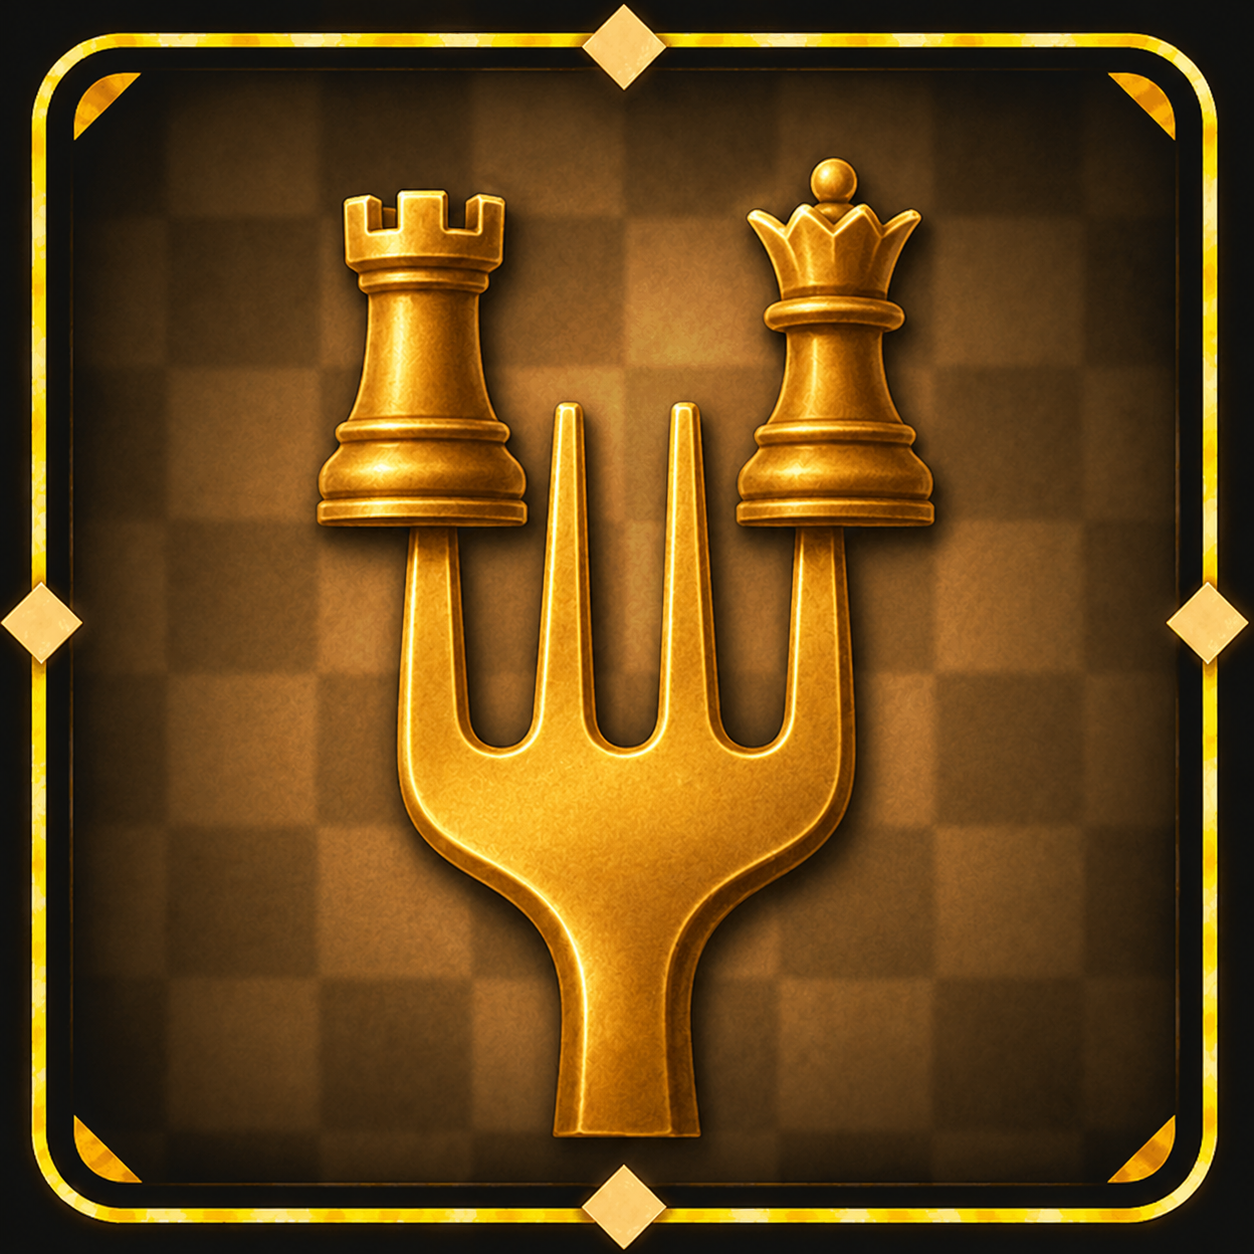
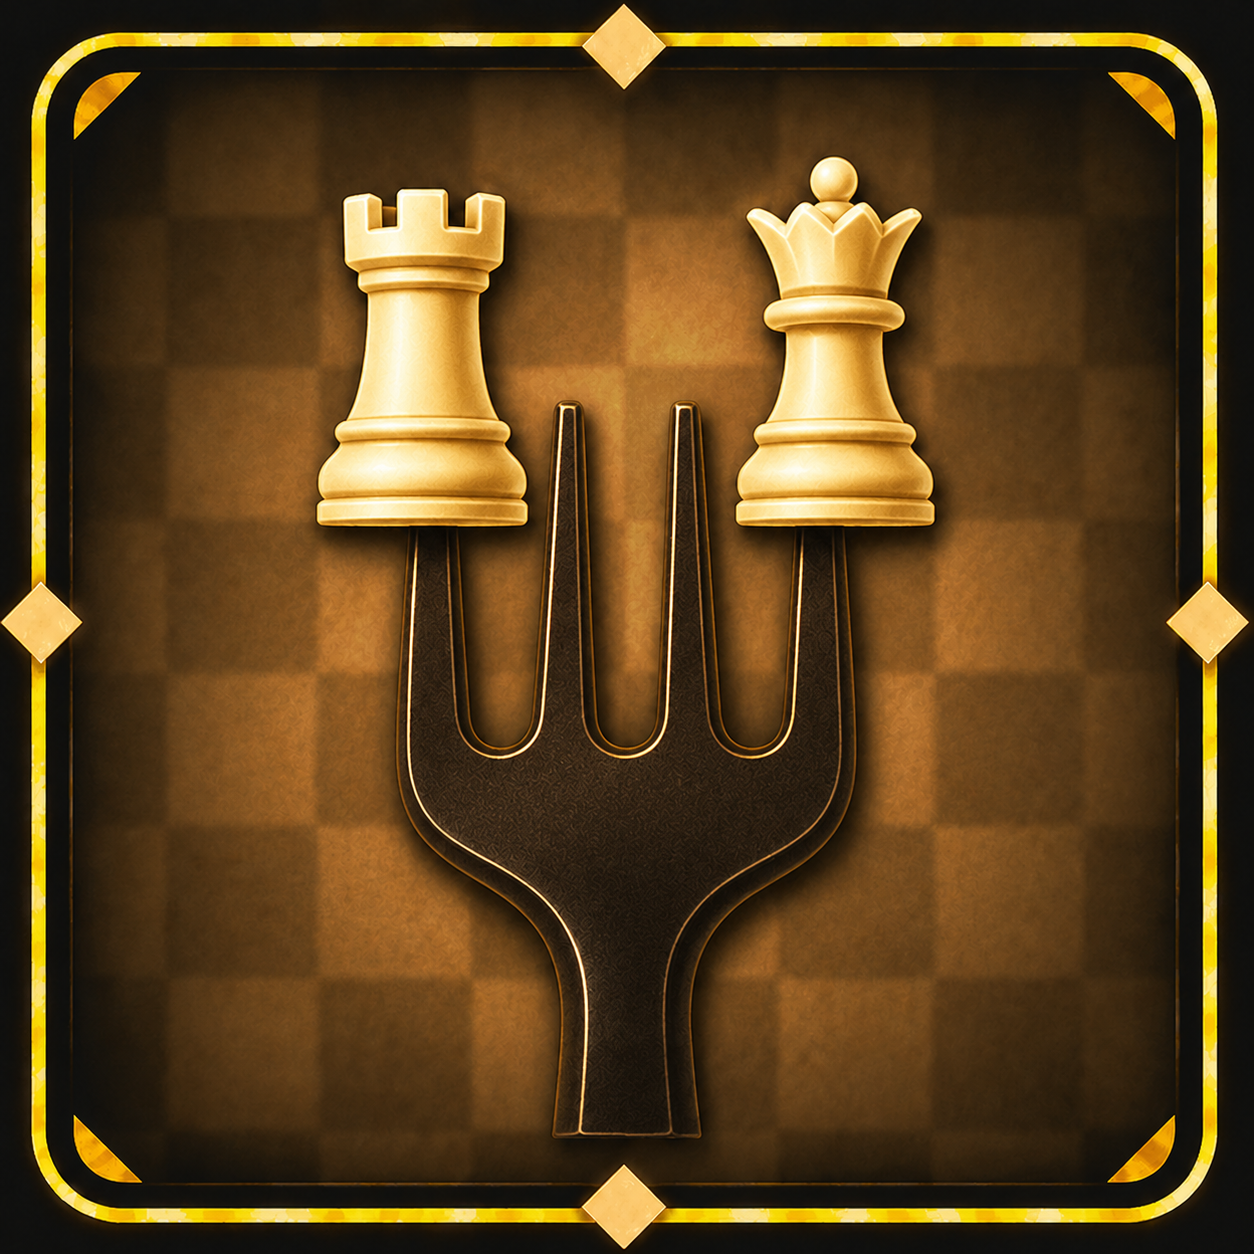
corecţia de culoare pentru „Atac prin descoperire"
Turnul devine negru — el e ţinta, piesa adversă lovită de raza care s-a deschis.
Nebunul care trage şi pionul care s-a dat la o parte rămân deschise: sunt ale
noastre, ele au făcut mutarea. Aşa se citeşte şi tactica din culori, nu doar
compoziţia — două piese albe lucrează împreună, una neagră plăteşte.

Prompt de recolorare, ca la furculiţă: se ataşează poza existentă şi se listează
explicit tot ce n-are voie să se schimbe. Am adăugat aici şi raza în lista aia —
altfel e primul lucru pe care ChatGPT îl redesenează când umblă la piesa pe care
o loveşte.

Şi o cerinţă anume: raza să rămână luminoasă acolo unde atinge turnul, cu o
sclipire caldă în punctul de impact. Pe metal închis, o rază lăsată aşa se stinge
şi se pierde legătura dintre nebun şi ţintă.

Changed region(s): [[0.2488, 0.1244, 0.7464, 0.933], [0.0311, 0.0311, 0.0933, 0.0933], [0.9019, 0.0311, 0.9641, 0.0622]]

diff --git a/docs/prompturi-imagini/03-descoperire.md b/docs/prompturi-imagini/03-descoperire.md
@@ -3,6 +3,70 @@
 **Scena:** un pion tocmai a pășit într-o parte, iar raza nebunului din spatele
 lui — până atunci blocată — trece prin locul rămas gol și lovește un turn.
 
+> **Starea:** imaginea există, dar a fost generată înainte de
+> [codul culorilor](README.md#codul-culorilor-alb-și-negru) — totul e din același
+> aur. Se corectează cu promptul de mai jos, nu se generează din nou.
+
+---
+
+## Corecție — culorile
+
+**Turnul devine negru.** El e ținta: piesa adversă lovită de raza care s-a
+deschis. Nebunul care trage și pionul care s-a dat la o parte rămân deschise —
+sunt ale noastre, ele au făcut mutarea.
+
+Așa se citește și tactica, nu doar culorile: două piese albe lucrează împreună,
+una neagră plătește.
+
+**Atașează la mesaj:** poza actuală,
+[`Atac prin descoperire.png`](../../surse-imagini/tactici/Atac%20prin%20descoperire.png).
+
+```text
+Here is an image you made earlier. Change one thing only: the metal the rook is made of. Everything else in the picture must stay exactly as it is.
+
+DO NOT CHANGE, in any way:
+- the ornamental gold frame, its corner pieces and its four diamonds;
+- the brown chessboard background, its pattern, and the warm glow;
+- the composition: the position, size, angle and shape of all three chess pieces;
+- the beam of light — its path, its length, its width, its brightness and its warm colour;
+- the bishop in the lower left and the pawn in the middle right, which keep their present pale gold exactly as it is;
+- the lighting direction, the highlights, the shadows and the drop shadows;
+- the square format and the framing.
+
+This is a recolour of one object in the existing image, not a new illustration. If anything moves, resizes or changes shape, it is wrong.
+
+THE ROOK — the piece in the UPPER RIGHT, the one tipped over at an angle with the beam of light striking it — becomes DARK: a near-black bronze, with highlight #4A3A1C, mid-tone #241A0A and deep shadow #0E0A04. Keep a thin warm gold rim light along its edges so its silhouette stays crisp against the brown board behind it. It must read instantly as a black chess piece would on a real board — clearly the dark side.
+
+It keeps exactly the shape, the size, the tilt and the position it already has. Only its material changes.
+
+Where the beam of light meets the rook, the beam itself stays bright and warm as it is now, and it should throw a warm glow onto the dark metal at the point of impact — so it is still obvious that the light is hitting this piece.
+
+The bishop and the pawn stay pale and bright, as the light side: highlight #FFF0C0, mid-tone #E4C071, shadow #A07C30. The contrast between them and the dark rook must be strong and immediate.
+
+Keep the same square size, at least 1024x1024.
+```
+
+---
+
+**Salvează ca:** peste poza actuală.
+
+**Verificare**
+
+1. **Doar turnul s-a schimbat?** Pune-le una lângă alta. Nebunul, pionul, raza,
+   rama și fundalul trebuie să fie identice.
+2. **Raza a rămas luminoasă acolo unde atinge turnul?** Dacă s-a stins pe metalul
+   închis, se pierde legătura dintre nebun și țintă. Cere: *„keep the beam bright
+   where it touches the rook, and add a warm glow at the point of impact"*.
+3. **Contrastul e puternic?** Turnul trebuie citit ca „piesă neagră", nu ca aur
+   mai închis.
+4. **Turnul a rămas înclinat la fel?** Poziția și unghiul nu se schimbă.
+
+---
+
+## Promptul original
+
+*Păstrat pentru referință — corecția de sus e cea care se folosește acum.*
+
 Trei piese, o singură rază. Nu e diagramă: piesele nu stau pe pătrate, sunt
 sculptate în aur ca furculița. Dar povestea trebuie să se citească — cine s-a
 dat la o parte, cine trage, pe cine.
